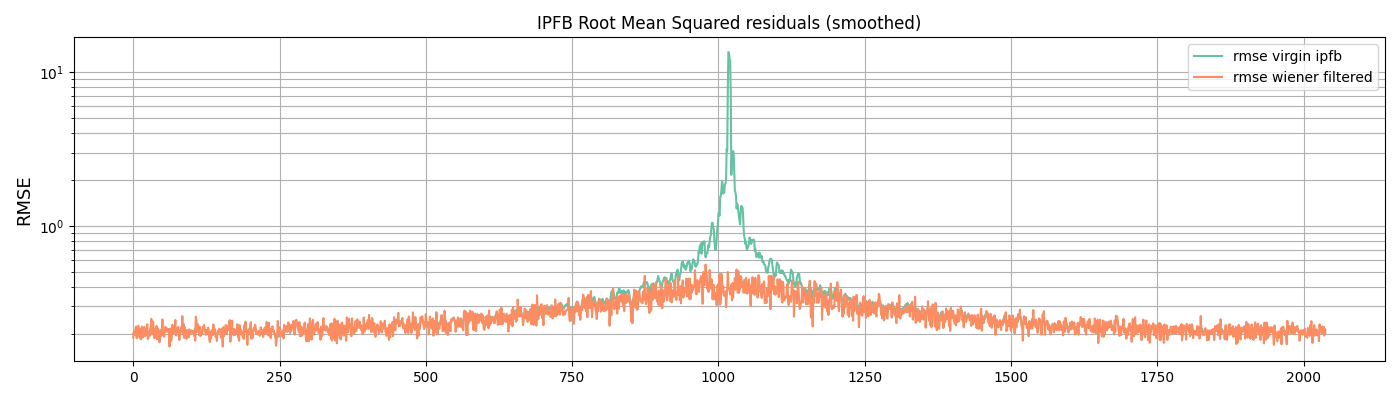
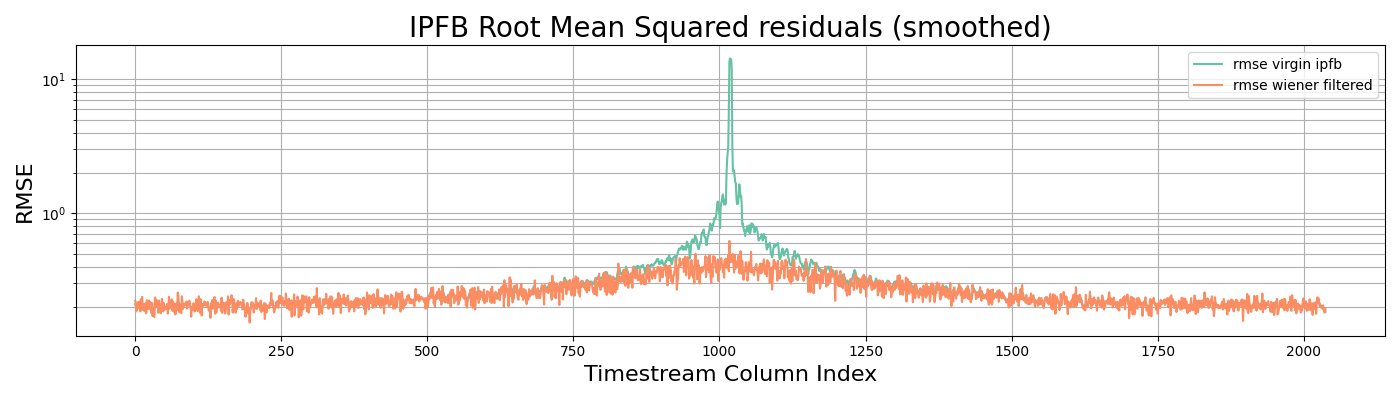
refactor conj gradient descent matrix operations into their own module

diff --git a/plots/rmse_wiener_vs_noprior_min_chisq.py b/plots/rmse_wiener_vs_noprior_min_chisq.py
@@ -1,13 +1,75 @@
-print("\nINFO: Running rmse_conjugate_gradient_plots.py\n")
+print("\nINFO: Running rmse_wiener_vs_noprior_min_chisq.py\n")
+"""
+To see how much a chi-squared minimization improves the Wiener filter
+"""
 
 import sys
 sys.path.append("..")
 import conjugate_gradient as cg
-from matrix_operations import A,A_inv,A_inv_wiener,A_quantize,AT
 import pfb
 import numpy as np
 from numpy.fft import rfft, irfft
 import matplotlib.pyplot as plt
+
+def A(x):
+    """Applies PFB, irfft's that, flatten."""
+    # Forward PFB the Signal
+    b = pfb.forward_pfb(x)
+    # Inverse Fourier Transform along axis=1
+    b = irfft(b)
+    # Apply circulant boundary conditions
+    b = np.concatenate([b, b[:3, :]], axis=0)
+    return b.flatten()
+
+def A_inv(b_flat):
+    """Inverse of A. Reshape the array, rfft, iPFB."""
+    # Sanity check
+    if len(b_flat)/lblock != len(b_flat)//lblock: 
+        raise Exception("Dimensions of input do not match lblock!")
+    # Reshape array so that it looks like irfft'd pfb output dims
+    b = b_flat.reshape((-1,lblock))[:-3,:]
+    # Rfft along axis=1
+    b = rfft(b)
+    return pfb.inverse_pfb(b)
+
+def A_inv_wiener(b_flat, wiener_thresh=0.25):
+    """Inverse of A with wiener filtering. Reshape the array, rfft, iPFB with wiener filter."""
+    # Sanity check
+    if len(b_flat)/lblock != len(b_flat)//lblock: 
+        raise Exception("Dimensions of input do not match lblock!")
+    # Reshape array so that it looks like irfft'd pfb output dims
+    b = b_flat.reshape((-1,lblock))[:-3,:]
+    # Rfft along axis=1
+    b = rfft(b)
+    return pfb.inverse_pfb(b, wiener_thresh=wiener_thresh)
+
+def A_quantize(x, delta):
+    """Takes signal, pfb's it, quantizes, irfft's that."""
+    # Forward PFB the signal
+    b = pfb.forward_pfb(x)
+    # Quantize the filter bank
+    # The sqrt is to account for the next IRFFT step
+    # b = pfb.quantize(b, np.sqrt(2*(b.shape[1] - 1)) * delta) 
+    b = pfb.quantize_8_bit(b, np.sqrt(2*(b.shape[1] - 1)) * delta) 
+    # Inverse Fourier Transform
+    b = irfft(b) # Same as apply along axis=1
+    # Apply circulant boundary conditions
+    b = np.concatenate([b, b[:3, :]], axis=0)
+    return b.flatten() 
+
+def R(x):
+    """Re-ordering matrix (involution)."""
+    lx = len(x)
+    if lx/lblock != lx//lblock: 
+        raise Exception("Len x must divide lblock.")
+    k = lx // lblock
+    out = np.zeros(lx)
+    for i in range(k):
+        out[i*lblock:(i+1)*lblock] = x[(k-i-1)*lblock:(k-i)*lblock]
+    return out
+
+def AT(x): # the transpose of A
+    return R(A(R(x)))
 
 
 """Main"""
@@ -104,21 +166,25 @@ plt.tight_layout()
 plt.savefig("img/RMSE_log_virgin_IPFB_residuals_wiener.png")
 plt.show()
 
+cmap="YlGn" #"RdYlBu" # diverging colorblind photocopy colormap
 # RMS conj gradient descent
 x_out_5 = cg.conjugate_gradient_descent(B_5, u_5, x0=x0_wiener, rmin=0.0, 
         max_iter=15, k=k, lblock=lblock, verbose=True, x_true=x, 
         title="RMSE smoothed gradient steps 5% data salvaged",
-        saveas="img/RMSE_conjugate_gradient_descent_5percent.png")
+        saveas="img/RMSE_conjugate_gradient_descent_5percent.png",
+        cmap=cmap)
 # RMS conj gradient descent
 x_out_3 = cg.conjugate_gradient_descent(B_3, u_3, x0=x0_wiener, rmin=0.0, 
         max_iter=10, k=k, lblock=lblock, verbose=True, x_true=x, 
         title="RMSE smoothed gradient steps 3% data salvaged",
-        saveas="img/RMSE_conjugate_gradient_descent_3percent.png")
+        saveas="img/RMSE_conjugate_gradient_descent_3percent.png",
+        cmap=cmap)
 # RMS conj gradient descent
 x_out_1 = cg.conjugate_gradient_descent(B_1, u_1, x0=x0_wiener, rmin=0.0, 
         max_iter=5, k=k, lblock=lblock, verbose=True, x_true=x, 
         title="RMSE smoothed gradient steps 1% data salvaged",
-        saveas="img/RMSE_conjugate_gradient_descent_1percent.png")        
+        saveas="img/RMSE_conjugate_gradient_descent_1percent.png",
+        cmap=cmap)        
     
 
 

diff --git a/matrix_operations.py b/matrix_operations.py
@@ -1,0 +1,69 @@
+"""
+Turns our PFB related operations into a the chi-squared matrix notation
+"""
+import pfb
+import numpy as np
+from numpy.fft import rfft,irfft
+
+def A(x):
+    """Applies PFB, irfft's that, flatten."""
+    # Forward PFB the Signal
+    b = pfb.forward_pfb(x)
+    # Inverse Fourier Transform along axis=1
+    b = irfft(b)
+    # Apply circulant boundary conditions
+    b = np.concatenate([b, b[:3, :]], axis=0)
+    return b.flatten()
+
+def A_inv(b_flat,lblock=2048):
+    """Inverse of A. Reshape the array, rfft, iPFB.
+    lblock : int, length of a block (segment)"""
+    # Sanity check
+    if len(b_flat)/lblock != len(b_flat)//lblock: 
+        raise Exception("Dimensions of input do not match lblock!")
+    # Reshape array so that it looks like irfft'd pfb output dims
+    b = b_flat.reshape((-1,lblock))[:-3,:]
+    # Rfft along axis=1
+    b = rfft(b)
+    return pfb.inverse_pfb(b)
+
+def A_inv_wiener(b_flat, wiener_thresh=0.25,lblock=2048):
+    """Inverse of A with wiener filtering. Reshape the array, rfft, iPFB with wiener filter."""
+    # Sanity check
+    if len(b_flat)/lblock != len(b_flat)//lblock: 
+        raise Exception("Dimensions of input do not match lblock!")
+    # Reshape array so that it looks like irfft'd pfb output dims
+    b = b_flat.reshape((-1,lblock))[:-3,:]
+    # Rfft along axis=1
+    b = rfft(b)
+    return pfb.inverse_pfb(b, wiener_thresh=wiener_thresh)
+
+def A_quantize(x, delta):
+    """Takes signal, pfb's it, quantizes, irfft's that."""
+    # Forward PFB the signal
+    b = pfb.forward_pfb(x)
+    # Quantize the filter bank
+    # The sqrt is to account for the next IRFFT step
+    # b = pfb.quantize(b, np.sqrt(2*(b.shape[1] - 1)) * delta) 
+    b = pfb.quantize_8_bit(b, np.sqrt(2*(b.shape[1] - 1)) * delta) 
+    # Inverse Fourier Transform
+    b = irfft(b) # Same as apply along axis=1
+    # Apply circulant boundary conditions
+    b = np.concatenate([b, b[:3, :]], axis=0)
+    return b.flatten() 
+
+def R(x,lblock=2048):
+    """Re-ordering matrix (involution). Useful for Transposes"""
+    lx = len(x)
+    if lx/lblock != lx//lblock: 
+        raise Exception("Len x must divide lblock.")
+    k = lx // lblock
+    out = np.zeros(lx)
+    for i in range(k):
+        out[i*lblock:(i+1)*lblock] = x[(k-i-1)*lblock:(k-i)*lblock]
+    return out
+
+def AT(x): # the transpose of A
+    return R(A(R(x)))
+
+

diff --git a/conjugate_gradient.py b/conjugate_gradient.py
@@ -64,7 +64,7 @@ def mav(x, n=4):
 def conjugate_gradient_descent(B, u, x0=None, rmin=0.1, max_iter=20, 
         k=80, lblock=2048, verbose=False, x_true=None, 
         title="RMSE smoothed gradient steps",
-        saveas=None, cmap="RdYlBu"): 
+        saveas=None): 
     """Minimize chi-squared by casting as conjugate gradient. 
     
     This conjugate gradient descent method approximately solves the 
@@ -94,7 +94,6 @@ def conjugate_gradient_descent(B, u, x0=None, rmin=0.1, max_iter=20,
     saveas : str, optional
         If a string is passed (& verbose is True), the figure will be
         saved. 
-    cmap : str or matplotlib colormap object
     
     Returns
     -------
@@ -145,7 +144,7 @@ def conjugate_gradient_descent(B, u, x0=None, rmin=0.1, max_iter=20,
         plt.legend()
         plt.grid()
         plt.title(title, fontsize=20)
-        plt.xlabel("Channel #",fontsize=16)
+        plt.xlabel("Timestream Column Index",fontsize=16)
         plt.ylabel("Normalized RMSE",fontsize=16)
         plt.tight_layout()
         if saveas is not None:
@@ -153,6 +152,9 @@ def conjugate_gradient_descent(B, u, x0=None, rmin=0.1, max_iter=20,
         plt.show()
     print("INFO: Conjugate Gradient descent completed.") 
     return x
+
+
+
 
 
 

diff --git a/plots/sidelobes.py b/plots/sidelobes.py
@@ -22,7 +22,7 @@ scale = max(np.abs(short_box)) # Now we can scale everyone down to where to peak
 box,short_box,box_sinc,short_box_sinc = box/scale,short_box/scale,box_sinc/scale,short_box_sinc/scale
 
 ### plot the sidelobes 
-plt.figure(figsize=(12,8))
+plt.figure(figsize=(10,4))
 plt.semilogy(np.abs(short_box_sinc),"-",label="sinc window",color=colors[0])
 plt.semilogy(np.abs(short_box),"-",label="sinc hanning window",color=colors[1])
 plt.tick_params(
@@ -31,14 +31,15 @@ plt.tick_params(
     bottom=False,      # ticks along the bottom edge are off
     top=False,         # ticks along the top edge are off
     labelbottom=False)
-plt.ylabel("Gain",fontsize=23)
-plt.xlabel("Relative Frequency",fontsize=23)
-plt.title("Sidelobes of PFB\nSinc and Sinc Hanning",fontsize=30)
+plt.ylabel("Gain",fontsize=16)
+plt.xlabel("Relative Frequency",fontsize=16)
+plt.title("Sidelobes of PFB\nSinc and Sinc Hanning",fontsize=20)
 plt.grid(which="both")
 plt.legend()
 
 
-plt.savefig("img/sidelobes.png")
+plt.tight_layout()
+plt.savefig("img/sidelobes.png",dpi=450)
 plt.show(block=True)
 
 

diff --git a/plots/rmse_wiener.py b/plots/rmse_wiener.py
@@ -89,11 +89,11 @@ rmse_wiener_avg = np.sqrt(np.mean(se_wiener_avg, axis=0))
 #plt.grid(which="both")
 #
 #plt.subplot(212)
-plt.figure(figsize=(10,4))
+plt.figure(figsize=(14,4))
 plt.semilogy(rmse_virgin_avg[:20*lblock],label="no filter",color=colors[0])
 plt.semilogy(rmse_wiener_avg[:20*lblock],label="wiener filter",color=colors[1])
 plt.legend()
-plt.xlabel("Channel #",fontsize=16)
+plt.xlabel("Timestream Column Index",fontsize=16)
 plt.ylabel("RMSE, signal to noise ratio",fontsize=16)
 plt.title("Normalized RMSE",fontsize=20)
 plt.grid(which="both")
@@ -117,11 +117,11 @@ plt.show(block=True)
 #plt.grid(which="both")
 #
 #plt.subplot(212)
-plt.figure(figsize=(10,4))
+plt.figure(figsize=(14,4))
 plt.semilogy(rmse_virgin[:20*lblock], label="no filter",color=colors[0])
 plt.semilogy(rmse_wiener[:20*lblock], label="wiener filter",color=colors[1])
 plt.legend()
-plt.xlabel("Time, in # of samples",fontsize=16)
+plt.xlabel("Time samples",fontsize=16)
 plt.ylabel("RMSE, signal to noise ratio",fontsize=16)
 plt.title("RMSE over time",fontsize=20)
 plt.grid(which="both")

diff --git a/plots/rmse_wiener_eigenspec.py b/plots/rmse_wiener_eigenspec.py
@@ -27,18 +27,18 @@ rmse_no_filter[np.where(rmse_no_filter > cieling)] = cieling
 plt.imshow(np.log(rmse_no_filter.T), aspect="auto", cmap="Set2")
 plt.title("No filter", fontsize=16)
 plt.colorbar()
-plt.xlabel("Channel #",fontsize=14)
-plt.ylabel("RFFT Errors on channel",fontsize=14)
+plt.xlabel("Timestream Column Index",fontsize=14)
+plt.ylabel("RMSE of the rFFT of a TS-column",fontsize=14)
 
 plt.subplot(122)
 rmse_optimal.T[0,0] = cieling # Scale the colors hack
 plt.imshow(np.log(rmse_optimal.T), aspect="auto", cmap="Set2")
 plt.title("Wiener filter, optimal threshold value phi={:.2f}".format(thresh_optimal),fontsize=16)
 plt.colorbar()
-plt.xlabel("Channel #",fontsize=14)
-plt.ylabel("RFFT Errors on channel",fontsize=14)
+plt.xlabel("Timestream Column Index",fontsize=14)
+plt.ylabel("RMSE of the rFFT of a TS-column",fontsize=14)
 
-plt.suptitle("Eigenspectrum log RMSE Sinc-Hanning", fontsize=22)
+plt.suptitle("Eigenspectrum log RMSE", fontsize=22)
 plt.tight_layout()
 plt.savefig("img/rmse_wiener_eigenspec.png")
 plt.show(block=True)

diff --git a/plots/eigenvalues_ntap4_lblock2048.py b/plots/eigenvalues_ntap4_lblock2048.py
@@ -23,7 +23,7 @@ plt.figure(figsize=(8.5,7))
 #plt.title("Eigenvalues ntap={} lblock={}".format(ntap,lblock),fontsize=22)
 plt.imshow(np.abs(mat_eig.T), aspect='auto',cmap="BrBG") # colorblind cmap
 plt.title("Eigenvalues",fontsize=20)
-plt.xlabel("Channel #", fontsize=16)
+plt.xlabel("Timestream Column Index", fontsize=16)
 plt.ylabel("FFT of zero padded sinc-hanning 'chunks'", fontsize=16)
 plt.colorbar()
 plt.tight_layout()

diff --git a/plots/rmse_calculated.py b/plots/rmse_calculated.py
@@ -26,7 +26,7 @@ plt.semilogy(np.mean(1/abs(eigengrid_hamm**2),axis=1), ".", label="sinc hamming"
 plt.title("Analytically Derived RMSE amplification per channel", fontsize=20)
 #plt.ylabel("Log R[n]")
 plt.ylabel("Gain on quantization noise",fontsize=16)
-plt.xlabel("Channel #",fontsize=16)
+plt.xlabel("Timestream Column Index",fontsize=16)
 plt.grid(which="both")
 plt.legend()
 plt.tight_layout()

diff --git a/plots/four_segments_sinc_hanning.py b/plots/four_segments_sinc_hanning.py
@@ -62,7 +62,7 @@ plt.tick_params(
     bottom=False,      # ticks along the bottom edge are off
     top=False,         # ticks along the top edge are off
     labelbottom=False)
-plt.xlabel("Channel #", fontsize=16)
+plt.xlabel("Timestream Column Index", fontsize=16)
 plt.ylabel("Sinc Hanning value", fontsize=16)
 plt.title("Four segments of Sinc Hanning",fontsize=22)
 plt.tight_layout()
